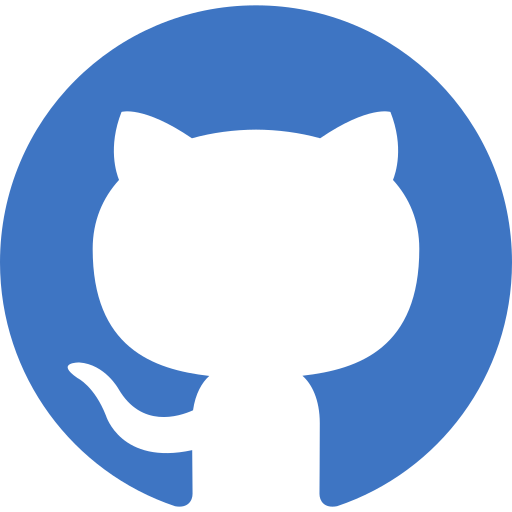
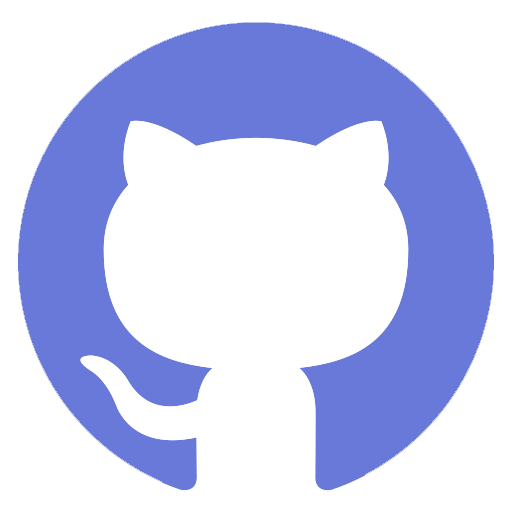
added social media links

diff --git a/index.html b/index.html
@@ -26,7 +26,8 @@
 <nav class="navbar-sticky">
     <p><a href="#head">Home</a></p>
     <p><a href="#top">About me</a></p>
-    <p><a href="#middle">My Twitter</a></p>
+    <p><a href="#dad">Want some Jokes?</a></p>
+    <p><a href="#middle">Social</a></p>
 </nav>
 
 <main>
@@ -91,7 +92,7 @@
             </div>
         </div>
     </div>
-    <div class="dadjoke-api">
+    <div class="dadjoke-api" id="dad">
         <div class="joke">
             <p>Dad Jokes.</p>
         </div>
@@ -99,10 +100,29 @@
     </div>
     <div class="middle-container" id="middle">
         <h2>Social Media Pages</h2>
+        <p>
+            Social Media is a place, where we can post, talk, search and connect with each other.
+            It is a place, where we can connect with likeminded people around the globe.
+            I want to share some of my thoughts on my open social media accounts.
+        </p>
+        <p>
+            My GitHub looks quite empty for now, because I've just started this account.
+            Maybe more repositories will come. Time will tell...
+        </p>
         <p>Feel free to visit my social media pages!</p>
         <div class="social_links">
             <img id="social" src="https://images.unsplash.com/photo-1611162617213-7d7a39e9b1d7?ixlib=rb-4.0.3&ixid=MnwxMjA3fDB8MHxwaG90by1wYWdlfHx8fGVufDB8fHx8&auto=format&fit=crop&w=1674&q=80" />
-            <p>laöskdfjölas</p>
+            <div class="social_icon_ordering">
+                <a href="https://github.com/RuthuV96" target="_blank">
+                    <img class="social-icons" src="github.png" />
+                </a>
+                <a href="https://twitter.com/djruthu07" target="_blank">
+                    <img class="social-icons" src="twitter.png" />
+                </a>
+                <a href="https://linkedin.com/in/ruthusanth-vijayakumar-19a7b5189" target="_blank">
+                    <img class="social-icons" src="linkedin.png" />
+                </a>
+            </div>
         </div>
         <!-- <blockquote>
             ferhbfbadgasdf

diff --git a/styles.css b/styles.css
@@ -153,15 +153,37 @@ source: https://wesbos.com/javascript/13-ajax-and-fetching-data/76-dad-jokes */
   background-color: lightgreen;
 }
 
-
-
 #social {
   /* border-radius: 50%; */
   width: 50vw;
-  border-style: solid;
+  /* border-style: solid;
   border-color: black;
-  box-shadow: 0 0 50px black;
+  box-shadow: 0 0 50px black; */
   margin: 20px;
+}
+
+.social_links {
+  display: flex;
+  flex-direction: row;
+  align-items: center;
+}
+
+.social_icon_ordering {
+  display: flex;
+  flex-direction: column;
+  margin: auto;
+}
+
+.social-icons {
+  position: relative;
+  display: inline-block;
+  filter: grayscale(100%);
+  width: 80px;
+  margin: auto;
+}
+
+.social-icons:hover {
+  filter: grayscale(0%);
 }
 
 .twt {
@@ -248,7 +270,7 @@ footer {
 /* conditions, when page width smaller (i.g. mobile horizontal) */
 @media screen and (max-width: 600px) {
   * {
-    scroll-padding-top: 150px;
+    scroll-padding-top: 200px;
   }
   .navbar-sticky {
     flex-direction: column;
@@ -265,5 +287,9 @@ footer {
   }
   #avatar {
     width: 120px;
+  }
+  .social_links {
+    display: flex;
+    flex-direction: column;
   }
 }
